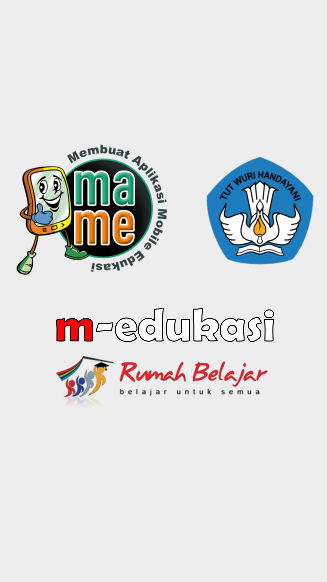
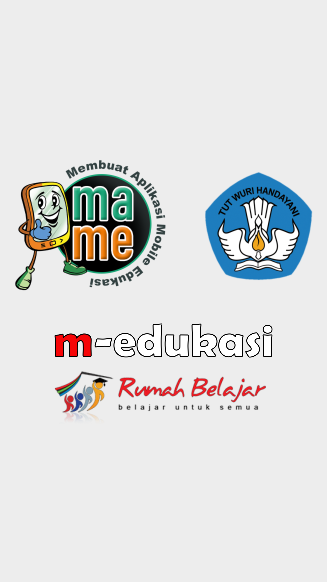
f

Changed region(s): [[0.1529, 0.5258, 0.8563, 0.7423], [0.0306, 0.2474, 0.5199, 0.4948], [0.6116, 0.2474, 0.9786, 0.4948]]

diff --git a/index.html b/index.html
@@ -37,7 +37,7 @@
             -ms-flex-pack: center;
             justify-content: center;
       background-color: #ebedec;
-      object-fit: cover;
+      /*object-fit: cover;*/
       width: 100vw;
       height: 100vh;
       /*position: fixed;
@@ -65,7 +65,18 @@
       font-size: 12px;
       margin-bottom: 10px;
       border-radius: 5px;
-    }    
+    }
+/*
+    .big {
+      animation-name: example;
+      animation-duration: 5s;
+    }
+
+    @keyframes example {
+        0%   {transform: scale(1,1);}
+        50%  {transform: scale(2,2);}
+        100% {transform: scale(1,1);}
+    }*/
 
     /*@media only screen and (max-width: 360px){
 
@@ -304,9 +315,11 @@
     	});
     	  
     	    $(function(){
+          // $(window).load(function() {
     	       setTimeout(function() {
-    		  $('#splash').fadeOut(500);
-    		  console.log("asiappppp!!");
+              // $( "#splash" ).slideUp( 300 ).delay( 800 ).fadeIn( 500 );
+        		  $('#splash').fadeOut(500);
+        		  console.log("asiappppp!!");
     	       }, 5000);
     	    });
     	  
@@ -324,6 +337,26 @@
           		spaceBetween: 0,
           	    });
     	  });
+
+        //Function that centers in viewport
+        // jQuery.fn.center = function() {
+        //   this.css("position", "absolute");
+        //   this.css("top", ($(window).height() - this.height()) / 2 + $(window).scrollTop() + "px");
+        //   this.css("left", ($(window).width() - this.width()) / 2 + $(window).scrollLeft() + "px");
+        //   return this;
+        // }
+
+        $("img").on('animationend', function(e) { 
+            $("img").removeClass("big").css({"display": "none"});
+          });
+
+        //Center
+        // $("img").center()
+
+        //Zoom in / out
+        $("button").on("click", function() {
+          $("#splash").addClass("big").css({"display": "initial"});
+        });
 	  
   </script>
 	
